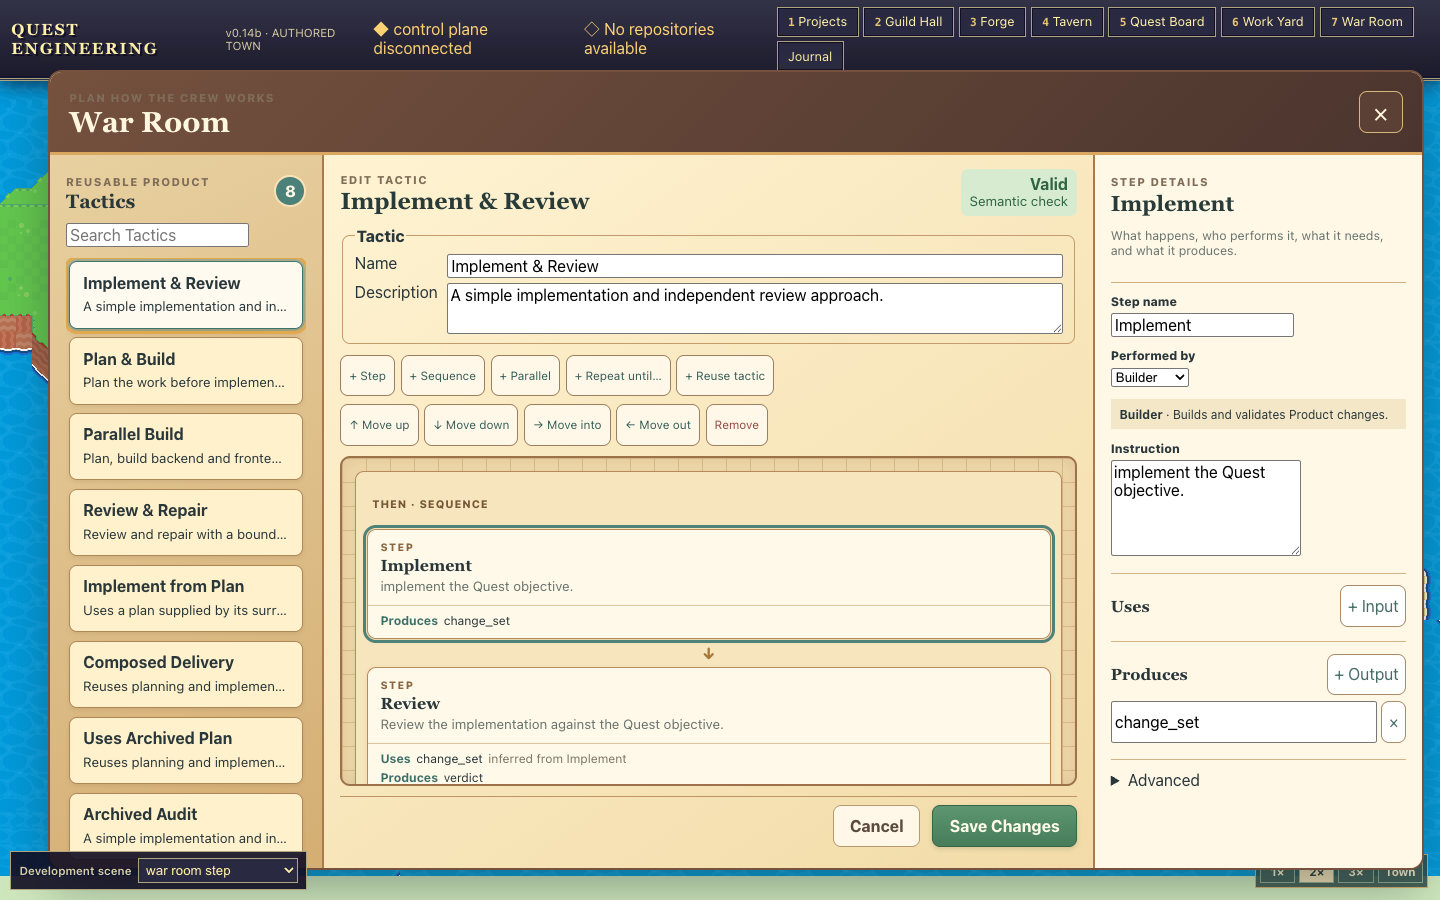
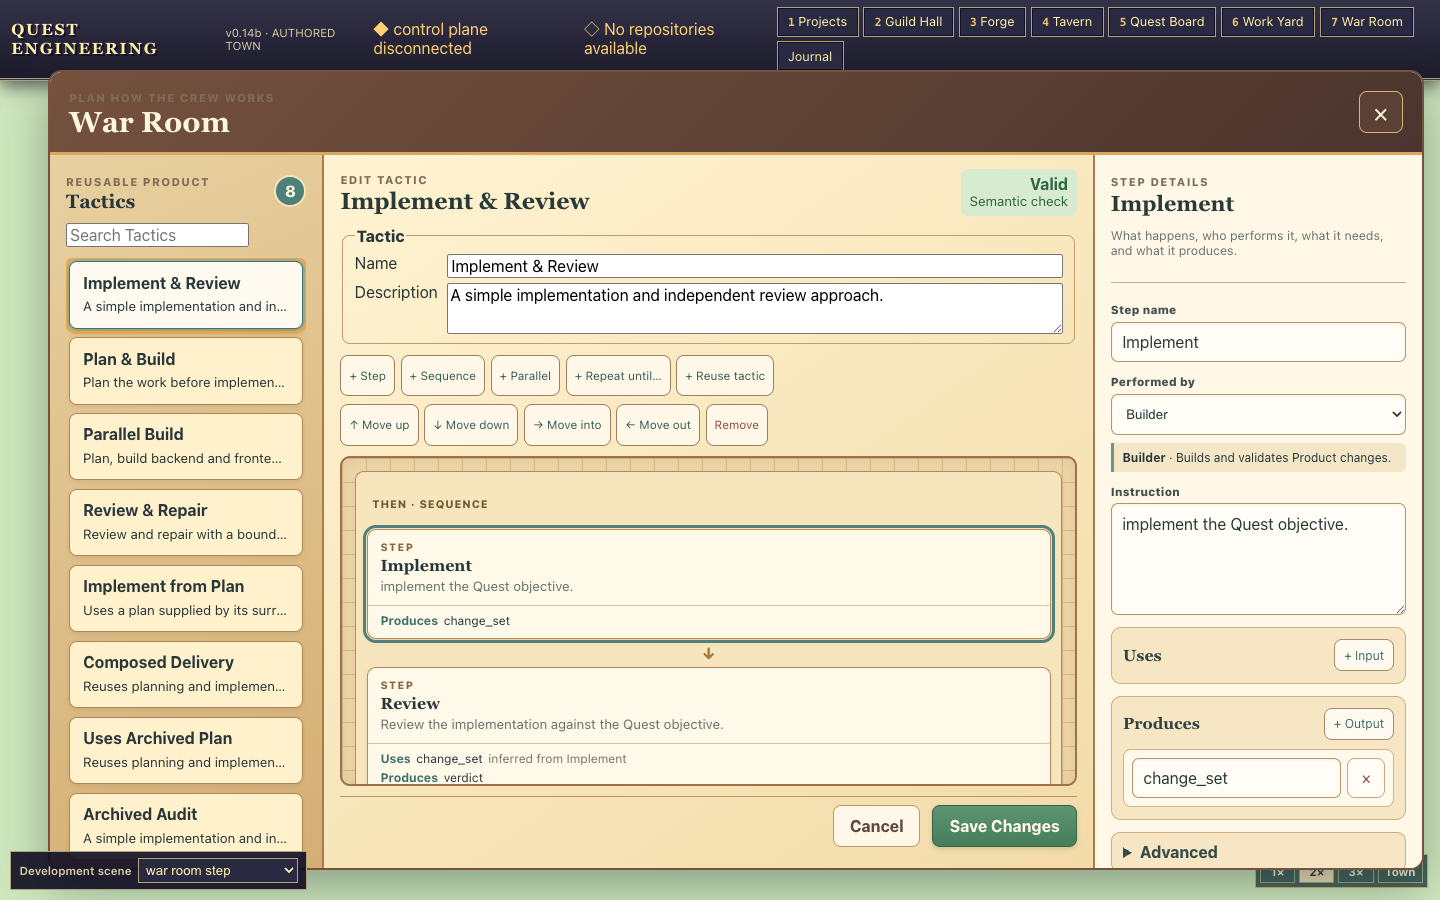
War room ui improvements

Changed region(s): [[0.2188, 0.0933, 1.0, 0.9956], [0.0, 0.0622, 0.0312, 0.9644]]

diff --git a/client/src/components/war-room/WarRoomWindow.svelte b/client/src/components/war-room/WarRoomWindow.svelte
@@ -766,10 +766,12 @@ function humanizeKey(value: string): string {
         {:else if selectedNode.type === "step"}
           {@const step = selectedNode as StepNode}
           <header><span class="eyebrow">Step details</span><h2>{step.name || "New Step"}</h2><p>What happens, who performs it, what it needs, and what it produces.</p></header>
+          <div class="inspector-fields">
           <label for="step-name">Step name</label><input id="step-name" value={step.name} on:input={(event) => setSelectedNode({ ...step, name: event.currentTarget.value })} />
           <label for="step-class">Performed by</label>
           {#if step.performer.selector === "class"}<select id="step-class" value={step.performer.value} on:change={(event) => setSelectedNode({ ...step, performer: { selector: "class", value: event.currentTarget.value } })}>{#each classCatalog.filter((item) => !item.archived_at || item.key === step.performer.value) as role}<option value={role.key}>{role.name}{role.archived_at ? " · Archived" : ""}</option>{/each}</select>{#if classForKey(step.performer.value)}<p class="field-help"><strong>{classForKey(step.performer.value)?.name}</strong> · {classForKey(step.performer.value)?.description}</p>{/if}{#if classForKey(step.performer.value)?.archived_at}<p class="archived-warning">This Tactic preserves an archived Class reference. Choose an active Class for future use.</p>{/if}{:else}<div class="reference-summary">Same Member as {humanizeKey(step.performer.value)}</div>{/if}
           <label for="step-instruction">Instruction</label><textarea id="step-instruction" value={step.instruction} on:input={(event) => setSelectedNode({ ...step, instruction: event.currentTarget.value })} placeholder="Implement the Quest objective."></textarea>
+          </div>
           <section class="artifact-editor"><div class="inspector-section-title"><h3>Uses</h3><button type="button" on:click={() => addArtifact("consumes")}>+ Input</button></div>{#each step.consumes as artifact, index}<div class="artifact-row"><input aria-label={`Input artifact ${index + 1}`} value={artifact.type} on:input={(event) => updateArtifact("consumes", index, { type: event.currentTarget.value })} placeholder="change_set" /><select aria-label={`Source for ${artifact.type || `input ${index + 1}`}`} value={artifact.source ?? ""} on:change={(event) => updateArtifact("consumes", index, { source: event.currentTarget.value || null })}><option value="">Automatic</option>{#each artifactSourceCandidates(artifact.type) as key}<option value={key}>{humanizeKey(key)}</option>{/each}</select><button aria-label={`Remove input ${artifact.type || index + 1}`} type="button" on:click={() => removeArtifact("consumes", index)}>×</button></div>{@const resolvedBinding = previewBindings.find((binding) => binding.consumer.local_key === step.key && binding.artifact_type === artifact.type)}{#if resolvedBinding}<small class="resolved-binding">Resolved: {resolvedBinding.source.kind === "step" ? resolvedBinding.source.step.name ?? humanizeKey(resolvedBinding.source.step.local_key) : "current remediation value"} · {resolvedBinding.selection}</small>{/if}{/each}</section>
           <section class="artifact-editor"><div class="inspector-section-title"><h3>Produces</h3><button type="button" on:click={() => addArtifact("produces")}>+ Output</button></div>{#each step.produces as artifact, index}<div class="artifact-row output"><input aria-label={`Output artifact ${index + 1}`} value={artifact.type} on:input={(event) => updateArtifact("produces", index, { type: event.currentTarget.value })} placeholder="verdict" /><button aria-label={`Remove output ${artifact.type || index + 1}`} type="button" on:click={() => removeArtifact("produces", index)}>×</button></div>{/each}</section>
           <details class="inspector-advanced" bind:open={inspectorAdvanced}><summary>Advanced</summary><fieldset><legend>Performer</legend><label><input type="radio" checked={step.performer.selector === "class"} on:change={() => setSelectedNode({ ...step, performer: { selector: "class", value: classCatalog.find((item) => !item.archived_at)?.key ?? "" } })} /> Any Member with this Class</label><label><input type="radio" checked={step.performer.selector === "same_as"} on:change={() => setSelectedNode({ ...step, performer: { selector: "same_as", value: steps(draft.body).find((item) => item.key !== step.key)?.key ?? "" } })} /> Same Member as</label>{#if step.performer.selector === "same_as"}<select aria-label="Same performer Step" value={step.performer.value} on:change={(event) => setSelectedNode({ ...step, performer: { selector: "same_as", value: event.currentTarget.value } })}>{#each steps(draft.body).filter((item) => item.key !== step.key) as candidate}<option value={candidate.key}>{candidate.name}</option>{/each}</select>{/if}</fieldset><fieldset><legend>Working context</legend><label><input type="radio" checked={step.context.selector === "fresh"} on:change={() => setSelectedNode({ ...step, context: { selector: "fresh", value: null } })} /> Fresh context</label><label><input type="radio" checked={step.context.selector === "continue_from"} on:change={() => setSelectedNode({ ...step, context: { selector: "continue_from", value: steps(draft.body).find((item) => item.key !== step.key)?.key ?? "" } })} /> Continue context from</label>{#if step.context.selector === "continue_from"}<select aria-label="Context source Step" value={step.context.value} on:change={(event) => setSelectedNode({ ...step, context: { selector: "continue_from", value: event.currentTarget.value } })}>{#each steps(draft.body).filter((item) => item.key !== step.key) as candidate}<option value={candidate.key}>{candidate.name}</option>{/each}</select>{/if}</fieldset><label for="step-key">Stable Step key</label><input id="step-key" value={step.key} readonly /></details>
@@ -806,5 +808,5 @@ function humanizeKey(value: string): string {
 </aside>
 
 <style>
-.war-room-window{width:min(86rem,calc(100vw - 1.5rem));height:min(50rem,calc(100vh - 4.5rem))}.war-layout{display:grid;grid-template-columns:minmax(15rem,27%) minmax(0,1fr);height:calc(100% - 5rem);min-height:0}.war-layout.editing{grid-template-columns:minmax(13rem,20%) minmax(25rem,1fr) minmax(18rem,24%)}.tactic-browser{min-width:0;padding:1rem;overflow:hidden;background:linear-gradient(155deg,#e8d0a0,#d4ae73);border-right:2px solid #a87a4e}.browser-heading,.section-heading,.detail-actions,.editor-actions,.inspector-section-title,.header-actions,.editor-heading,.detail-hero,.usage-panel{display:flex;align-items:center;gap:.75rem}.header-actions{flex:0 0 auto!important;margin-left:auto}.browser-heading h2,.section-heading h3{margin:.05rem 0 0;color:var(--app-ink);font:700 1.2rem Georgia,serif}.count-seal{display:grid;place-items:center;width:2rem;height:2rem;margin-left:auto;color:#fff8e9;background:var(--app-teal);border:2px solid #f7e2b7;border-radius:50%;font-weight:800}.search-field{display:block;margin:.7rem 0}.tactic-list{display:grid;align-content:start;gap:.55rem;max-height:calc(100% - 3.5rem);padding:.2rem;overflow:auto}.tactic-card{display:grid;gap:.25rem;width:100%;min-height:4.2rem;padding:.7rem .8rem;color:var(--app-ink);text-align:left;background:#fff1cc;border:1px solid #af8757;box-shadow:0 2px 5px #72503522}.tactic-card small{overflow:hidden;text-overflow:ellipsis;white-space:nowrap}.tactic-card.selected{background:#fffaf0;border-color:#3f746d;box-shadow:0 0 0 2px #4c817966,0 4px 10px #72503533}.tactic-detail,.flow-editor,.node-inspector{min-width:0;min-height:0;overflow:auto;color:var(--app-ink);background:linear-gradient(145deg,#fff3d2,#f2dba8)}.tactic-detail{padding:1.25rem 1.4rem}.detail-hero{align-items:flex-start;padding-bottom:1rem;border-bottom:1px solid #c59a68}.detail-hero>div{min-width:0;flex:1}.detail-hero h2,.editor-heading h2,.node-inspector h2{margin:.12rem 0;color:#293b39;font:700 2rem Georgia,serif}.detail-hero p{margin:.25rem 0;color:#65726e}.status-chip{padding:.35rem .65rem;border-radius:999px;font-size:.75rem;font-weight:800}.tone-success{background:#d7ebd1;color:#2f6543}.tone-warning{background:#f3dfaa;color:#74541f}.tone-danger{background:#f5cec3;color:#8a443d}.tone-active{background:#cde4df;color:#315f5c}.tone-neutral{background:#e7e2d2;color:#576864}.validation-banner{display:flex;gap:.6rem;align-items:baseline;margin:1rem 0;padding:.7rem .85rem;border-left:5px solid currentColor;border-radius:7px}.validation-banner span{color:#606c68}.read-flow{display:grid;gap:.65rem;margin:1rem 0;padding:1rem;background:#f5e6bf;border:1px solid #c69b67;border-radius:10px}.usage-panel{justify-content:space-between;margin:1rem 0;padding:.9rem 1rem;background:#fff9e9;border:1px solid #c8a171;border-radius:8px}.usage-panel h3{margin:.15rem 0;font:700 1.05rem Georgia,serif}.usage-panel p{margin:.2rem 0}.advanced-read{margin:1rem 0;padding:.65rem;border-top:1px solid #c59a68}.advanced-read dl{display:grid;grid-template-columns:auto 1fr;gap:.4rem}.detail-actions{justify-content:space-between;padding-top:1rem;border-top:1px solid #c59a68}.flow-editor{display:grid;grid-template-rows:auto auto auto minmax(15rem,1fr) auto auto;gap:.65rem;padding:.85rem 1rem}.editor-heading{justify-content:space-between}.editor-heading h2{font-size:1.45rem}.preview-state{display:grid;padding:.4rem .55rem;border-radius:7px;text-align:right}.preview-state small{color:inherit}.future-run-note{margin:0;padding:.55rem .7rem;background:#e1eddc;border-left:4px solid #568467;font-size:.78rem}.metadata-fields{display:grid;grid-template-columns:auto minmax(10rem,1fr);gap:.35rem .6rem;padding:.55rem .7rem;border:1px solid #c49b6d;border-radius:8px}.metadata-fields legend{font-weight:800}.metadata-fields textarea{min-height:3.2rem}.canvas-toolbar{display:flex;justify-content:space-between;gap:.5rem;flex-wrap:wrap}.canvas-toolbar>div{display:flex;gap:.35rem;flex-wrap:wrap}.canvas-toolbar button{padding:.35rem .5rem;color:#365e59;background:#fff8e8;border:1px solid #9e8060;box-shadow:none;font-size:.74rem}.canvas-toolbar .remove-node{color:#934a43}.flow-canvas{min-height:0;padding:.8rem;overflow:auto;background:linear-gradient(#d8bd87 1px,transparent 1px),linear-gradient(90deg,#d8bd87 1px,transparent 1px),#efd8aa;background-size:24px 24px;border:2px solid #9d7149;border-radius:10px;box-shadow:inset 0 0 18px #6e492c25}.editor-actions{justify-content:flex-end;padding-top:.5rem;border-top:1px solid #bd9463}.node-inspector{padding:1rem;border-left:2px solid #a87a4e;background:#fff8e7}.node-inspector header{padding-bottom:.7rem;border-bottom:1px solid #d0ae80}.node-inspector h2{font-size:1.35rem}.node-inspector header p{color:#68736d;font-size:.78rem}.node-inspector>label,.node-inspector details>label{display:block;margin:.7rem 0 .25rem;font-size:.76rem;font-weight:800}.node-inspector textarea{min-height:6rem}.artifact-editor{margin-top:.9rem;padding-top:.7rem;border-top:1px solid #d4b487}.inspector-section-title{justify-content:space-between}.inspector-section-title h3{margin:0;font:700 1rem Georgia,serif}.inspector-section-title button,.artifact-row button{padding:.2rem .4rem;color:#446b65;background:#fff;border:1px solid #aa8b67;box-shadow:none}.artifact-row{display:grid;grid-template-columns:minmax(0,1fr) minmax(6rem,.8fr) auto;gap:.3rem;margin-top:.4rem}.artifact-row.output{grid-template-columns:minmax(0,1fr) auto}.resolved-binding{display:block;margin:.2rem;color:#3d6e66}.inspector-advanced{margin-top:1rem;padding-top:.7rem;border-top:1px solid #d4b487}.inspector-advanced fieldset{display:grid;gap:.35rem;margin:.7rem 0;padding:.55rem;border:1px solid #d1b184}.inspector-advanced label{font-size:.76rem}.reference-summary,.field-help,.archived-warning{padding:.45rem .55rem;background:#f3e7c8;font-size:.75rem}.archived-warning{color:#8d453f;background:#f5d4ca}.container-summary{display:flex;align-items:baseline;gap:.4rem;margin:1rem 0;padding:1rem;background:#f5e7c6;border:1px solid #c7a475}.container-summary strong{font:700 2rem Georgia,serif}.inspector-add{width:100%}.use-actions{display:flex;gap:.4rem;margin:.8rem 0}.nested-preview{max-height:16rem;padding:.5rem;overflow:auto;background:#f0ddb5;border:1px solid #b88d5b}.context-warning,.validation-issues{margin:.7rem 0;padding:.75rem .85rem;background:#fff0c9;border-left:5px solid #c28a35;border-radius:7px}.context-warning p{margin:.25rem 0}.context-warning li{margin:.25rem 0}.context-warning code{color:#5b5547}.compact-warning{margin:0}.validation-issues{display:grid;gap:.25rem;background:#f8d8cf;border-color:#c45f55}.friendly-error{padding:.65rem .75rem;color:#873f3b;background:#f7d4ca;border-left:5px solid #bd5e56}.empty-state{display:grid;place-items:center;align-content:center;height:100%;text-align:center}.empty-state p{max-width:35rem}.empty-seal{font-size:2rem}.sr-only{position:absolute;width:1px;height:1px;overflow:hidden;clip:rect(0,0,0,0)}@media(max-width:1050px){.war-layout.editing{grid-template-columns:9.5rem minmax(0,1fr) 15rem}.war-room-window{width:calc(100vw - 1rem)}.tactic-card small{display:none}.canvas-toolbar{flex-wrap:nowrap;overflow-x:auto;padding-bottom:.2rem}.canvas-toolbar>div{flex-wrap:nowrap}.canvas-toolbar button{white-space:nowrap}}@media(max-width:760px){.war-room-window{inset:.4rem;width:calc(100vw - .8rem);height:calc(100vh - .8rem)}.war-layout,.war-layout.editing{grid-template-columns:1fr;grid-template-rows:auto minmax(18rem,1fr) auto}.tactic-browser{max-height:8rem;padding:.55rem;border-right:0;border-bottom:2px solid #a87a4e}.browser-heading{display:none}.tactic-list{display:flex;max-height:7rem;overflow:auto}.tactic-card{min-width:12rem}.node-inspector{max-height:42vh;border-left:0;border-top:2px solid #a87a4e}.metadata-fields{grid-template-columns:1fr}.flow-editor{padding:.65rem}.canvas-toolbar>div:last-child{display:none}}
+.war-room-window{width:min(86rem,calc(100vw - 1.5rem));height:min(50rem,calc(100vh - 4.5rem))}.war-layout{display:grid;grid-template-columns:minmax(15rem,27%) minmax(0,1fr);height:calc(100% - 5rem);min-height:0}.war-layout.editing{grid-template-columns:minmax(13rem,20%) minmax(25rem,1fr) minmax(18rem,24%)}.tactic-browser{min-width:0;padding:1rem;overflow:hidden;background:linear-gradient(155deg,#e8d0a0,#d4ae73);border-right:2px solid #a87a4e}.browser-heading,.section-heading,.detail-actions,.editor-actions,.inspector-section-title,.header-actions,.editor-heading,.detail-hero,.usage-panel{display:flex;align-items:center;gap:.75rem}.header-actions{flex:0 0 auto!important;margin-left:auto}.browser-heading h2,.section-heading h3{margin:.05rem 0 0;color:var(--app-ink);font:700 1.2rem Georgia,serif}.count-seal{display:grid;place-items:center;width:2rem;height:2rem;margin-left:auto;color:#fff8e9;background:var(--app-teal);border:2px solid #f7e2b7;border-radius:50%;font-weight:800}.search-field{display:block;margin:.7rem 0}.tactic-list{display:grid;align-content:start;gap:.55rem;max-height:calc(100% - 3.5rem);padding:.2rem;overflow:auto}.tactic-card{display:grid;gap:.25rem;width:100%;min-height:4.2rem;padding:.7rem .8rem;color:var(--app-ink);text-align:left;background:#fff1cc;border:1px solid #af8757;box-shadow:0 2px 5px #72503522}.tactic-card small{overflow:hidden;text-overflow:ellipsis;white-space:nowrap}.tactic-card.selected{background:#fffaf0;border-color:#3f746d;box-shadow:0 0 0 2px #4c817966,0 4px 10px #72503533}.tactic-detail,.flow-editor,.node-inspector{min-width:0;min-height:0;overflow:auto;color:var(--app-ink);background:linear-gradient(145deg,#fff3d2,#f2dba8)}.tactic-detail{padding:1.25rem 1.4rem}.detail-hero{align-items:flex-start;padding-bottom:1rem;border-bottom:1px solid #c59a68}.detail-hero>div{min-width:0;flex:1}.detail-hero h2,.editor-heading h2,.node-inspector h2{margin:.12rem 0;color:#293b39;font:700 2rem Georgia,serif}.detail-hero p{margin:.25rem 0;color:#65726e}.status-chip{padding:.35rem .65rem;border-radius:999px;font-size:.75rem;font-weight:800}.tone-success{background:#d7ebd1;color:#2f6543}.tone-warning{background:#f3dfaa;color:#74541f}.tone-danger{background:#f5cec3;color:#8a443d}.tone-active{background:#cde4df;color:#315f5c}.tone-neutral{background:#e7e2d2;color:#576864}.validation-banner{display:flex;gap:.6rem;align-items:baseline;margin:1rem 0;padding:.7rem .85rem;border-left:5px solid currentColor;border-radius:7px}.validation-banner span{color:#606c68}.read-flow{display:grid;gap:.65rem;margin:1rem 0;padding:1rem;background:#f5e6bf;border:1px solid #c69b67;border-radius:10px}.usage-panel{justify-content:space-between;margin:1rem 0;padding:.9rem 1rem;background:#fff9e9;border:1px solid #c8a171;border-radius:8px}.usage-panel h3{margin:.15rem 0;font:700 1.05rem Georgia,serif}.usage-panel p{margin:.2rem 0}.advanced-read{margin:1rem 0;padding:.65rem;border-top:1px solid #c59a68}.advanced-read dl{display:grid;grid-template-columns:auto 1fr;gap:.4rem}.detail-actions{justify-content:space-between;padding-top:1rem;border-top:1px solid #c59a68}.flow-editor{display:grid;grid-template-rows:auto auto auto minmax(15rem,1fr) auto auto;gap:.65rem;padding:.85rem 1rem}.editor-heading{justify-content:space-between}.editor-heading h2{font-size:1.45rem}.preview-state{display:grid;padding:.4rem .55rem;border-radius:7px;text-align:right}.preview-state small{color:inherit}.future-run-note{margin:0;padding:.55rem .7rem;background:#e1eddc;border-left:4px solid #568467;font-size:.78rem}.metadata-fields{display:grid;grid-template-columns:auto minmax(10rem,1fr);gap:.35rem .6rem;padding:.55rem .7rem;border:1px solid #c49b6d;border-radius:8px}.metadata-fields legend{font-weight:800}.metadata-fields textarea{min-height:3.2rem}.canvas-toolbar{display:flex;justify-content:space-between;gap:.5rem;flex-wrap:wrap}.canvas-toolbar>div{display:flex;gap:.35rem;flex-wrap:wrap}.canvas-toolbar button{padding:.35rem .5rem;color:#365e59;background:#fff8e8;border:1px solid #9e8060;box-shadow:none;font-size:.74rem}.canvas-toolbar .remove-node{color:#934a43}.flow-canvas{min-height:0;padding:.8rem;overflow:auto;background:linear-gradient(#d8bd87 1px,transparent 1px),linear-gradient(90deg,#d8bd87 1px,transparent 1px),#efd8aa;background-size:24px 24px;border:2px solid #9d7149;border-radius:10px;box-shadow:inset 0 0 18px #6e492c25}.editor-actions{justify-content:flex-end;padding-top:.5rem;border-top:1px solid #bd9463}.node-inspector{padding:1rem;border-left:2px solid #a87a4e;background:#fff8e7}.node-inspector header{padding-bottom:.7rem;border-bottom:1px solid #d0ae80}.node-inspector h2{font-size:1.35rem}.node-inspector header p{color:#68736d;font-size:.78rem}.inspector-fields{display:grid;gap:.35rem;margin-top:.8rem}.inspector-fields>label,.node-inspector>label,.node-inspector details>label{display:block;margin:.45rem 0 0;color:#42504e;font-size:.72rem;font-weight:850;letter-spacing:.02em}.node-inspector input:not([type=radio]),.node-inspector select,.node-inspector textarea{box-sizing:border-box;width:100%;min-height:2.55rem;padding:.55rem .65rem;color:#293b39;background:#fffdf6;border:1px solid #b7956b;border-radius:7px;box-shadow:inset 0 1px 2px #69492e12}.node-inspector input[readonly]{color:#65706b;background:#eee4ce}.node-inspector textarea{min-height:7rem;resize:vertical;line-height:1.4}.inspector-fields .field-help{margin:.15rem 0 0;border-left:3px solid #6f9587;border-radius:0 6px 6px 0}.artifact-editor{margin-top:.75rem;padding:.7rem;background:#f6e6c4;border:1px solid #cfad7d;border-radius:10px}.inspector-section-title{justify-content:space-between}.inspector-section-title h3{margin:0;color:#314442;font:700 1rem Georgia,serif}.inspector-section-title button{min-height:2rem!important;padding:.28rem .55rem!important;color:#3f6c65;background:#fffaf0;border:1px solid #aa8b67;box-shadow:none;font-size:.75rem}.artifact-row{display:grid;grid-template-columns:minmax(0,1fr) 2.35rem;gap:.4rem;margin-top:.55rem;padding:.5rem;background:#fff9eb;border:1px solid #d2b386;border-radius:8px}.artifact-row input{grid-column:1;grid-row:1}.artifact-row select{grid-column:1/-1;grid-row:2}.artifact-row>button{grid-column:2;grid-row:1;width:2.35rem;min-height:2.35rem!important;padding:0!important;color:#8b4e48;background:#fffdf6;border:1px solid #c8a77b;box-shadow:none}.artifact-row.output{grid-template-columns:minmax(0,1fr) 2.35rem}.resolved-binding{display:block;margin:.3rem .15rem 0;color:#3d6e66;font-size:.72rem}.inspector-advanced{margin-top:.75rem;padding:.65rem .7rem;background:#f6e6c4;border:1px solid #cfad7d;border-radius:9px}.inspector-advanced>summary{cursor:pointer;color:#344b48;font-weight:750}.inspector-advanced fieldset{display:grid;gap:.4rem;margin:.7rem 0;padding:.6rem;background:#fff9eb;border:1px solid #d1b184;border-radius:7px}.inspector-advanced label{font-size:.76rem}.reference-summary,.field-help,.archived-warning{padding:.45rem .55rem;background:#f3e7c8;font-size:.75rem}.archived-warning{color:#8d453f;background:#f5d4ca}.container-summary{display:flex;align-items:baseline;gap:.4rem;margin:1rem 0;padding:1rem;background:#f5e7c6;border:1px solid #c7a475}.container-summary strong{font:700 2rem Georgia,serif}.inspector-add{width:100%}.use-actions{display:flex;gap:.4rem;margin:.8rem 0}.nested-preview{max-height:16rem;padding:.5rem;overflow:auto;background:#f0ddb5;border:1px solid #b88d5b}.context-warning,.validation-issues{margin:.7rem 0;padding:.75rem .85rem;background:#fff0c9;border-left:5px solid #c28a35;border-radius:7px}.context-warning p{margin:.25rem 0}.context-warning li{margin:.25rem 0}.context-warning code{color:#5b5547}.compact-warning{margin:0}.validation-issues{display:grid;gap:.25rem;background:#f8d8cf;border-color:#c45f55}.friendly-error{padding:.65rem .75rem;color:#873f3b;background:#f7d4ca;border-left:5px solid #bd5e56}.empty-state{display:grid;place-items:center;align-content:center;height:100%;text-align:center}.empty-state p{max-width:35rem}.empty-seal{font-size:2rem}.sr-only{position:absolute;width:1px;height:1px;overflow:hidden;clip:rect(0,0,0,0)}@media(max-width:1050px){.war-layout.editing{grid-template-columns:9.5rem minmax(0,1fr) 15rem}.war-room-window{width:calc(100vw - 1rem)}.tactic-card small{display:none}.canvas-toolbar{flex-wrap:nowrap;overflow-x:auto;padding-bottom:.2rem}.canvas-toolbar>div{flex-wrap:nowrap}.canvas-toolbar button{white-space:nowrap}}@media(max-width:760px){.war-room-window{inset:.4rem;width:calc(100vw - .8rem);height:calc(100vh - .8rem)}.war-layout,.war-layout.editing{grid-template-columns:1fr;grid-template-rows:auto minmax(18rem,1fr) auto}.tactic-browser{max-height:8rem;padding:.55rem;border-right:0;border-bottom:2px solid #a87a4e}.browser-heading{display:none}.tactic-list{display:flex;max-height:7rem;overflow:auto}.tactic-card{min-width:12rem}.node-inspector{max-height:42vh;border-left:0;border-top:2px solid #a87a4e}.metadata-fields{grid-template-columns:1fr}.flow-editor{padding:.65rem}.canvas-toolbar>div:last-child{display:none}}
 </style>
